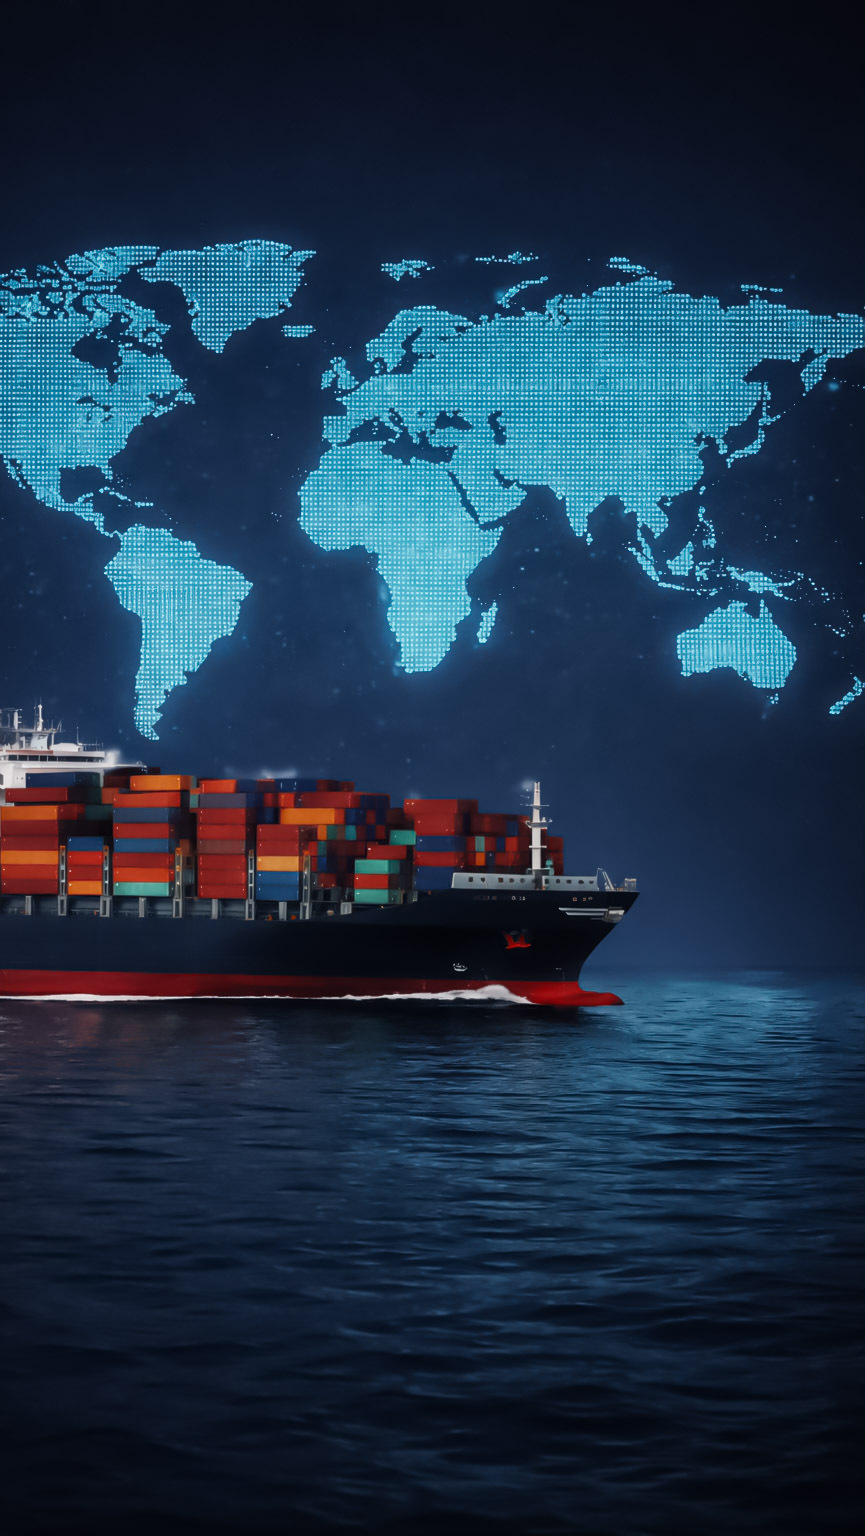
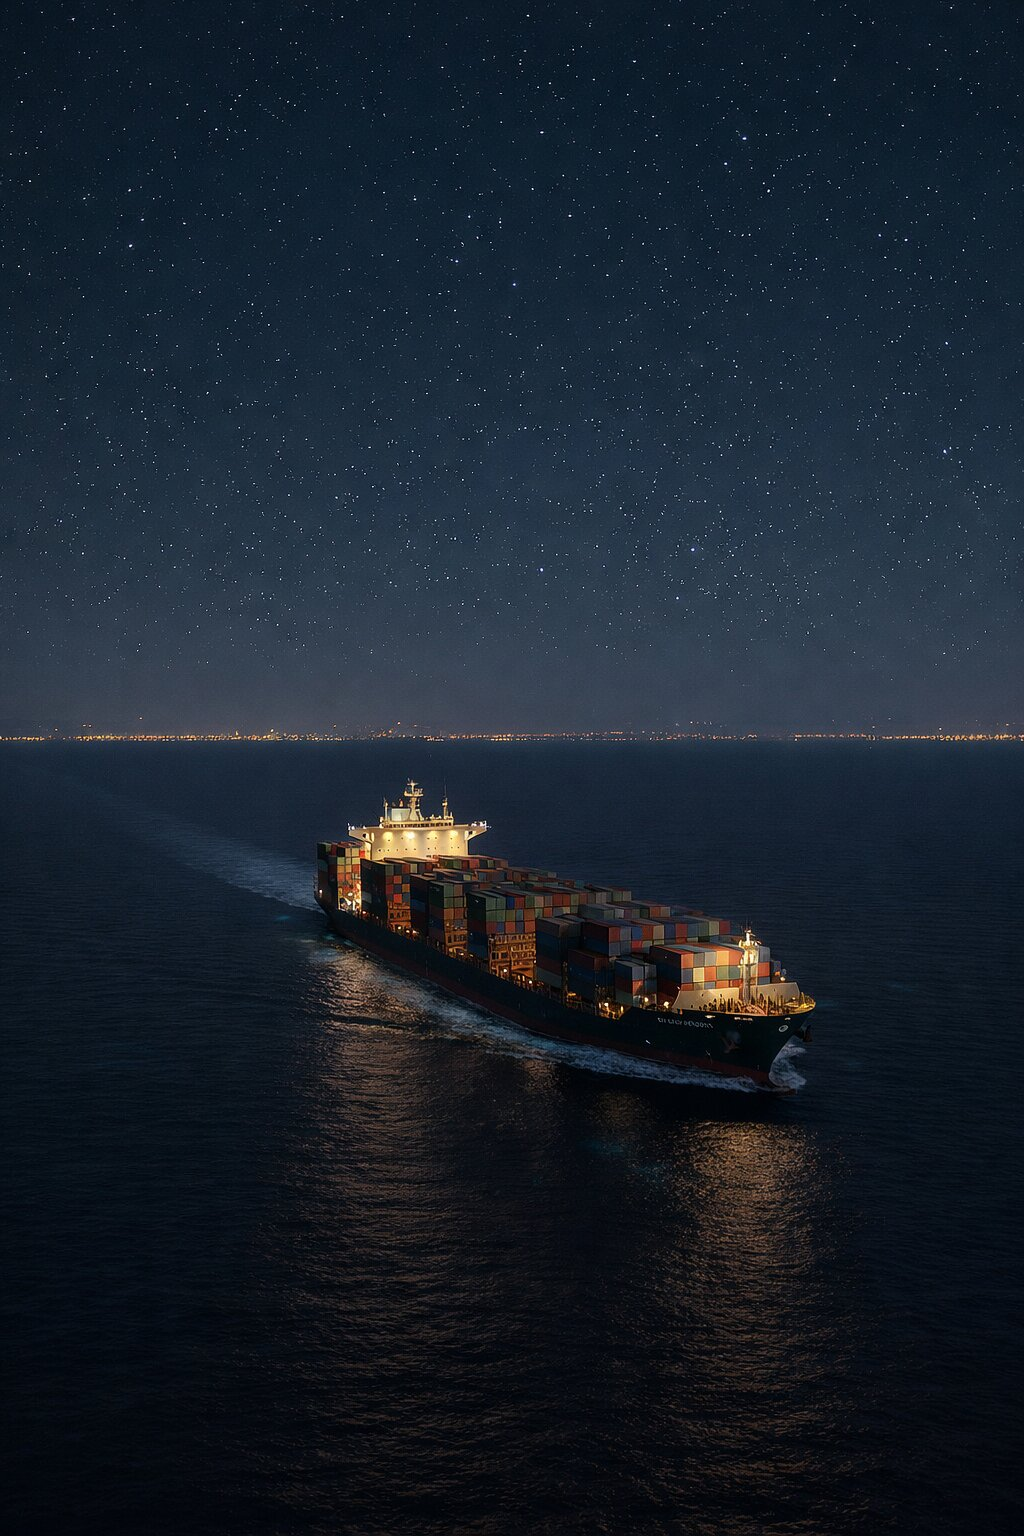
Force update image

diff --git a/src/pages/Home.jsx b/src/pages/Home.jsx
@@ -78,7 +78,7 @@ export default function Home() {
 
     {/* HEADLINE */}
     <h3 className="mt-4 text-2xl font-semibold leading-tight sm:text-3xl text-white">
-      Fewer Delays,
+      Fewer Delays
       <span className="block text-[rgba(var(--brand-500))]">Better Control</span>
     </h3>
 
